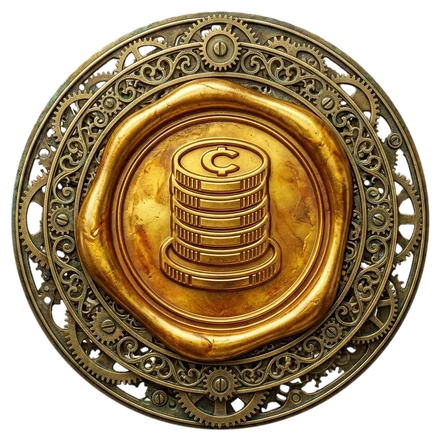
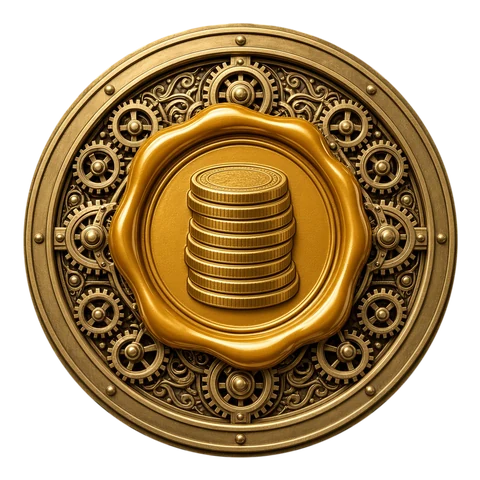
Preview: Grok's matching seal set (same frame, three waxes), slightly larger

diff --git a/preview/home-v2.html b/preview/home-v2.html
@@ -85,7 +85,7 @@
 
     .bots { display: grid; grid-template-columns: repeat(3, minmax(0, 1fr)); gap: 30px; margin-top: 108px; align-items: stretch; }
     .bot { --c: var(--brass); position: relative; display: flex; flex-direction: column; text-align: center;
-      padding: 92px 32px 30px; border-radius: 20px; color: var(--ink);
+      padding: 100px 32px 30px; border-radius: 20px; color: var(--ink);
       background: linear-gradient(180deg, color-mix(in srgb, var(--c) 9%, rgba(29,18,48,.92)), rgba(16,9,27,.95) 60%);
       border: 1px solid color-mix(in srgb, var(--brass) 70%, transparent);
       box-shadow: 0 30px 60px rgba(0,0,0,.45), inset 0 1px 0 rgba(255,235,190,.18);
@@ -103,7 +103,7 @@
     .bot--tide::before { animation-delay: -2.7s; } .bot--acc::before { animation-delay: -5.3s; }
     @keyframes bifrost { to { --a: 360deg; } }
 
-    .seal { position: absolute; top: -80px; left: 50%; width: 160px; height: 160px; margin-left: -80px;
+    .seal { position: absolute; top: -88px; left: 50%; width: 176px; height: 176px; margin-left: -88px;
       filter: drop-shadow(0 12px 18px rgba(0,0,0,.6)); }
     .seal__ring, .seal__core { position: absolute; inset: 0; background: center / contain no-repeat; }
     .seal__ring { animation: turn 70s linear infinite; }   /* only the outer teeth turn; the wax stays still */
@@ -192,7 +192,7 @@
       .nav { gap: 12px; } .nav .btn-brass { padding: 11px 14px; font-size: 15px; }
       .nav__keep { display: none; }
       .hero { padding-top: calc(100px + env(safe-area-inset-top, 0px)); }
-      .bot { padding: 86px 22px 24px; }
+      .bot { padding: 94px 22px 24px; }
       .bot__name { font-size: 31px; }
       .proof > div { padding: 22px 18px; } .proof b { font-size: 34px; } .proof span { font-size: 15px; }
       section.band { padding-block: 72px; }
